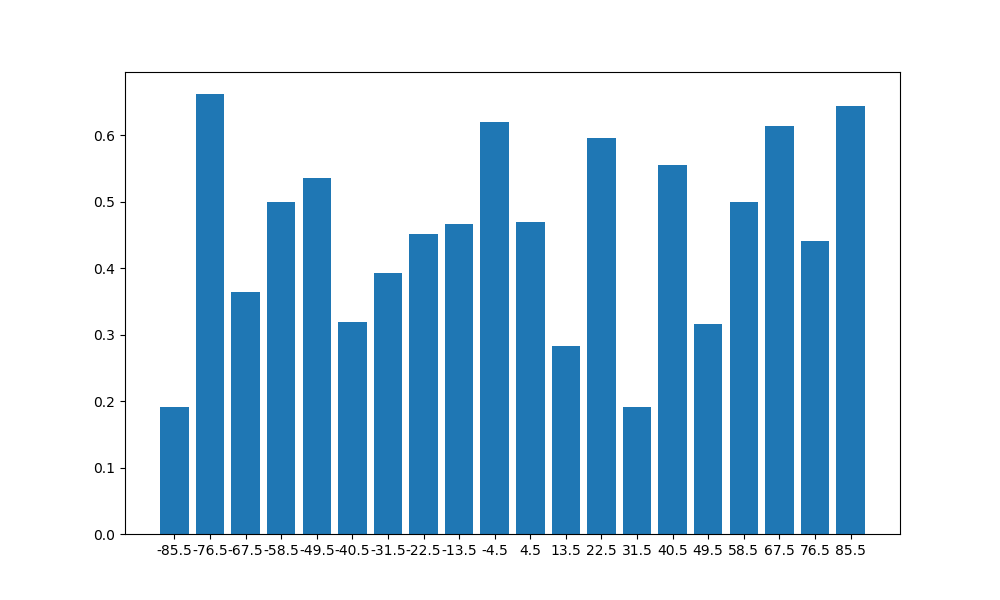
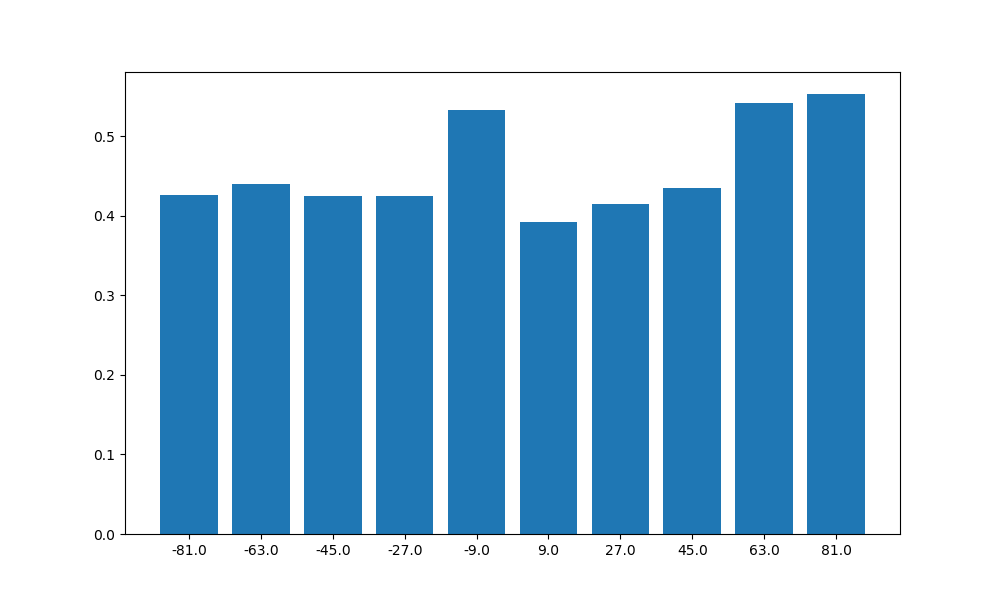
analyzing bias

diff --git a/code/main_analysis.py b/code/main_analysis.py
@@ -23,6 +23,8 @@ meg_subj_lst = [
     "NN",
     "JL",
     "DI",
+    "TE",
+    "SoM",
 ]
 
 aligned_dir = {
@@ -139,7 +141,7 @@ def analyze_selectivity_all_subjects(tmin=0, tmax=16, n_bins=20):
     plt.clf()
     return
 
-def analyze_bias_all_subjects(tmin=0, tmax=16, n_bins=20):
+def analyze_bias_all_subjects(tmin=0, tmax=16, n_bins=10):
     bins = [[] for i in range(n_bins)]
     for subj in meg_subj_lst:
         new_bins = sd.analyze_bias(subj, tmin, tmax, n_bins)
@@ -221,12 +223,12 @@ def run_all_subjects(data='stc', mode="cross_val", permutation_test=False, n_tra
 
 
 def main():
-    run_all_subjects(data="epochs", permutation_test=False, previous=False, use_off=False)
-    run_all_subjects(data="stc", permutation_test=False, previous=False, use_off=False)
+    #run_all_subjects(data="epochs", permutation_test=False, previous=False, use_off=False)
+    #run_all_subjects(data="stc", permutation_test=False, previous=False, use_off=False)
     #split_half_analysis_all()
-    #analyze_selectivity_all_subjects()
-    #analyze_selectivity_all_subjects(tmin=6, tmax=7)
-    #analyze_selectivity_all_subjects(tmin=5, tmax=9)
+    analyze_bias_all_subjects(tmin=6, tmax=7)
+    analyze_bias_all_subjects(tmin=5, tmax=9)
+    analyze_bias_all_subjects()
     #run_all_subjects(data="epochs", permutation_test=True)
     return 0
 
